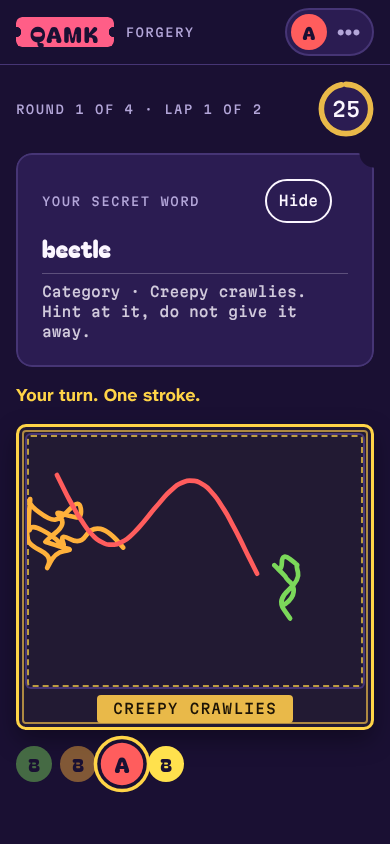
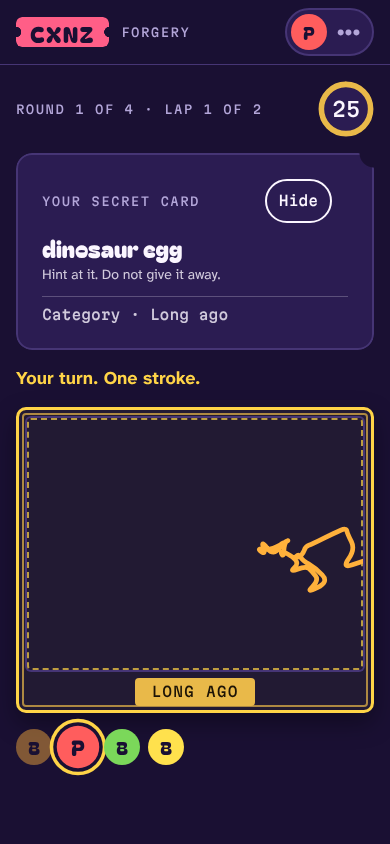
U10: phone and screen fixes from a browser pass over every game
- Wiki-what: the role card is compact and the same for everyone; screen
  standings are separate pills (in columns a score read as the next
  player's); the accused count no longer assumes the Mole sits out.
- Cave Rave: duel rows stack on phones; side by side at 390 px a name was
  cut to one letter. The screen keeps the three-column row.
- Screenshots for each visible change.

Claude-Session: https://claude.ai/code/session_016vAiTvN9x3bpCa47inXvLK

diff --git a/src/games/cave-rave/ui.css b/src/games/cave-rave/ui.css
@@ -15,19 +15,25 @@
   display: grid;
   gap: var(--s2);
 }
+/* Phone: the two sides stack (side by side, a 390 px row leaves a name one letter). */
 .cr-duel {
   display: grid;
-  grid-template-columns: minmax(0, 1fr) auto minmax(0, 1fr);
+  grid-template-columns: minmax(0, 1fr);
   align-items: center;
-  gap: var(--s2);
+  gap: 0;
   padding: var(--s2) var(--s3);
   border-radius: var(--r-m);
   background: var(--stage);
   border: 1px solid color-mix(in srgb, var(--accent) 35%, var(--line));
 }
 .cr-duel.is-bye {
-  grid-template-columns: minmax(0, 1fr) auto;
   border-style: dashed;
+}
+.cr-duel > .cr-vs {
+  justify-self: start;
+  padding-left: 40px;
+  font-size: calc(var(--t-s) * 0.85);
+  line-height: 1;
 }
 .cr-side {
   position: relative;
@@ -430,9 +436,19 @@
   gap: 1.4vh 2vw;
 }
 .cr-screen .cr-duel {
+  grid-template-columns: minmax(0, 1fr) auto minmax(0, 1fr);
+  gap: var(--s2);
   padding: 1.2vh 1.6vw;
   border-radius: 2vh;
   box-shadow: 0 0 3vh color-mix(in srgb, var(--accent) 22%, transparent);
+}
+.cr-screen .cr-duel.is-bye {
+  grid-template-columns: minmax(0, 1fr) auto;
+}
+.cr-screen .cr-duel > .cr-vs {
+  justify-self: center;
+  padding-left: 0;
+  font-size: var(--t-s);
 }
 .cr-screen .cr-side {
   padding-bottom: 1vh;

diff --git a/src/games/wiki-what/ui.tsx b/src/games/wiki-what/ui.tsx
@@ -165,9 +165,9 @@ function Player({ view, send, lobby, me }: PlayerProps<WikiView, WikiAction>) {
 
       {view.phase === 'ask' && q && (
         <>
-          {/* Everyone gets the same hidden card, so a glance at a phone cannot spot the Mole's. */}
+          {/* Everyone gets the same compact hidden card, so a glance at a phone cannot spot the Mole's. */}
           {you && (
-            <PromptCard key={`${view.round}-${view.qi}`} secret hidden eyebrow="Your role this round">
+            <PromptCard key={`${view.round}-${view.qi}`} secret hidden eyebrow="Your role this round" class="ww-role">
               {mole && you.answerIndex !== undefined ? (
                 <>
                   You are the Mole. The answer is {MARKS[you.answerIndex]} {q.choices[you.answerIndex]}. Steer the team wrong without getting caught.

diff --git a/src/games/wiki-what/ui.css b/src/games/wiki-what/ui.css
@@ -188,7 +188,30 @@
 .ww-screen .ww-standings {
   grid-template-columns: repeat(auto-fill, minmax(34vh, 1fr));
   gap: 1.4vh;
+  text-align: left;
+}
+/* In columns, each standing is its own pill, so a score never reads as the next player's. */
+.ww-screen .ww-standings .k-chip {
+  padding: 0.8vh 2.4vh 0.8vh 0.8vh;
+  border-radius: 999px;
+  background: var(--surface);
 }
 .ww-screen .ww-bracket .g-title {
   font-size: 7vh;
+}
+
+/* The role card every player gets while asking: compact, so the four choices stay high. */
+.ww-role {
+  gap: var(--s1);
+  padding: var(--s2) var(--s4);
+}
+.ww-role .k-prompt-veil {
+  font-size: var(--t-s);
+}
+.ww-role .k-prompt-body {
+  min-height: 0;
+  font-size: var(--t-s);
+  font-family: var(--font-body);
+  font-weight: 700;
+  line-height: 1.3;
 }
